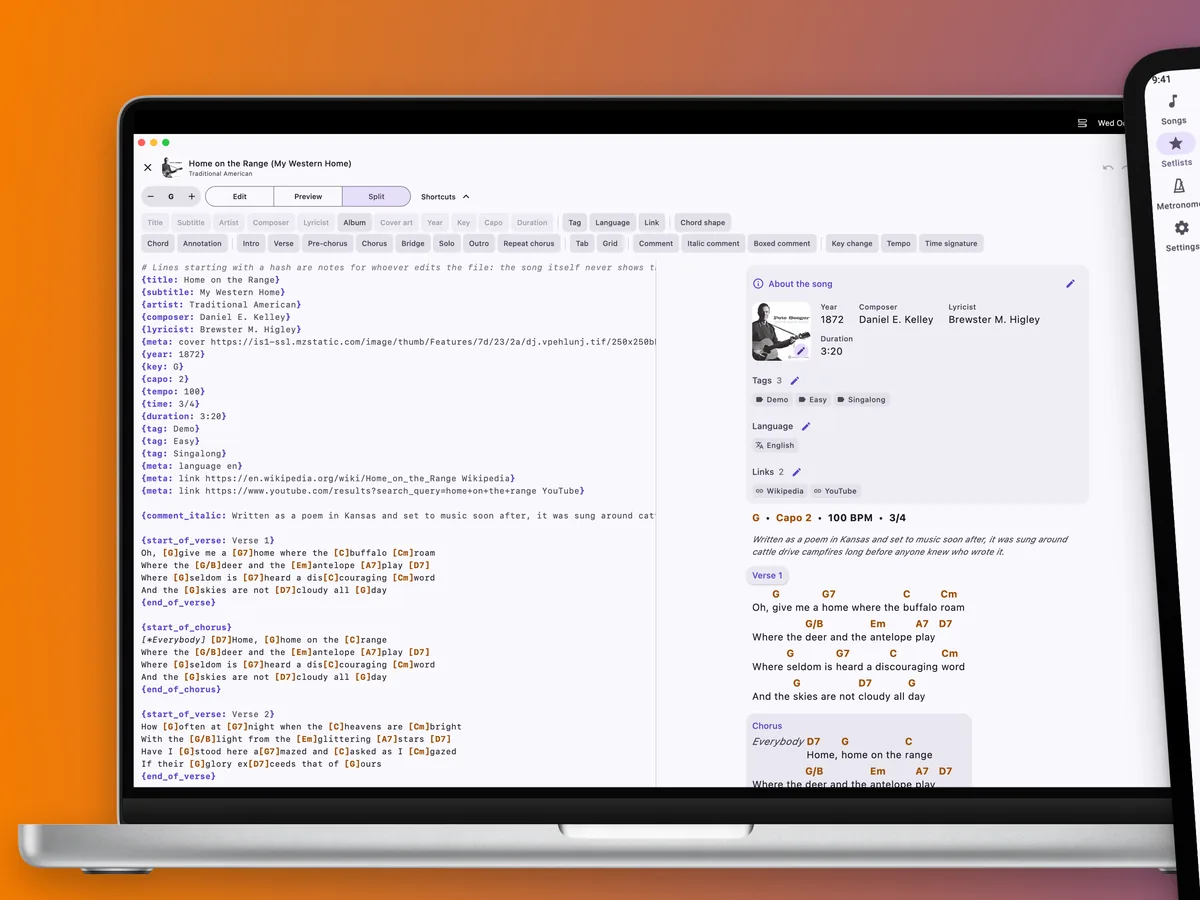
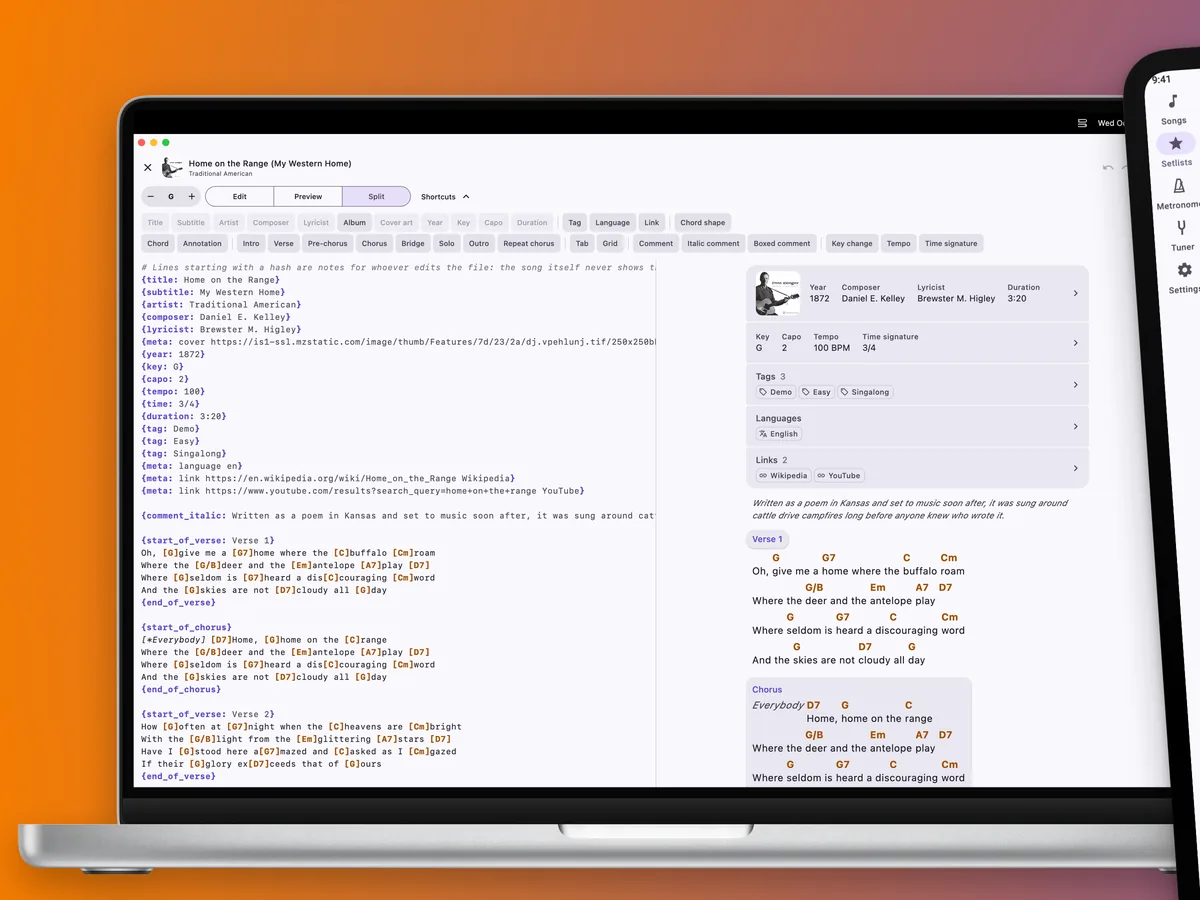
Add the tuner to the store screenshots and match the iPhone Duo's system chrome to iOS 27.1.

Changed region(s): [[0.6167, 0.3111, 0.8942, 0.8711], [0.9558, 0.2489, 1.0, 0.3422]]

diff --git a/tools/screenshots/src/main/kotlin/com/pandulapeter/campfire/screenshots/Shot.kt b/tools/screenshots/src/main/kotlin/com/pandulapeter/campfire/screenshots/Shot.kt
@@ -27,6 +27,7 @@ import com.pandulapeter.campfire.presentation.ui.navigation.CampfireDestination
 import com.pandulapeter.campfire.presentation.ui.navigation.SettingsTab
 import com.pandulapeter.campfire.presentation.ui.screens.songs.SongGroupHeader
 import com.pandulapeter.campfire.presentation.ui.screens.songs.SongGroups
+import com.pandulapeter.campfire.tuner.api.Tuner
 import kotlinx.coroutines.withTimeoutOrNull
 import kotlinx.serialization.json.JsonElement
 import kotlinx.serialization.json.JsonPrimitive
@@ -35,6 +36,7 @@ import kotlinx.serialization.json.buildJsonObject
 import kotlinx.serialization.json.put
 import kotlinx.serialization.json.putJsonArray
 import kotlinx.serialization.json.putJsonObject
+import org.koin.mp.KoinPlatform
 
 /**
  * One screenshot of the store listing, taken the same way on every [Device]. The rules each one follows are kept with
@@ -229,18 +231,42 @@ internal val shots = listOf(
         },
         beat = 0,
     ),
+    // The tuner as an instrument: its own tab on a guitar, the low E and the A strings already heard in tune and ticked
+    // off, and the D string heard a little flat, the needle left of the in-tune window, so the strings still to do show.
+    Shot(
+        id = "04-tuner",
+        uiMode = UserPreferences.UiMode.LIGHT,
+        preferences = {
+            mapOf(
+                "tunerSettings" to buildJsonObject {
+                    put("instrument", "guitar")
+                    put("referencePitch", 440)
+                    put("hasTurnedOnMicrophone", true)
+                },
+            )
+        },
+        drive = {
+            viewModel.selectTopLevelDestination(CampfireDestination.Tuner)
+            settle()
+            val tuner = KoinPlatform.getKoin().get<Tuner>() as ScriptedTuner
+            listOf(reading(note = 40, cents = 0f), reading(note = 45, cents = 1f), reading(note = 50, cents = -12f)).forEach {
+                tuner.hear(it)
+                settle(FRAME_MILLIS * 4)
+            }
+        },
+    ),
     // The setlists, latest day first: the Frey-Tully Nuptials in two days and Friday Night by the Lake tomorrow, each
     // counting down under its header next to its running time, and the rest of the gigs below.
     Shot(
-        id = "04-setlists",
-        uiMode = UserPreferences.UiMode.LIGHT,
+        id = "05-setlists",
+        uiMode = UserPreferences.UiMode.DARK,
         preferences = { mapOf("setlistSortingMode" to JsonPrimitive(UserPreferences.SetlistSortingMode.BY_DATE.id)) },
         drive = { viewModel.selectTopLevelDestination(CampfireDestination.Setlists) },
     ),
     // The ChordPro editor on the public domain Home on the Range: the text on its own where the window has room for one
     // pane, side by side with its live preview where it has room for two, and the Shortcuts always unfolded.
     Shot(
-        id = "05-editor",
+        id = "06-editor",
         uiMode = UserPreferences.UiMode.DARK,
         drive = {
             viewModel.openEditor(HOME_ON_THE_RANGE)
@@ -253,8 +279,8 @@ internal val shots = listOf(
     // preview shows the chord diagrams, the key, the tempo, the comments and the details. Share stands next to Save on
     // the phones and tablets, as the platforms' file pickers offer it there and not on a desktop.
     Shot(
-        id = "06-export",
-        uiMode = UserPreferences.UiMode.DARK,
+        id = "07-export",
+        uiMode = UserPreferences.UiMode.LIGHT,
         preferences = { device ->
             mapOf(
                 "printSettings" to printSettings(isLandscape = device != Device.ANDROID_SMALL_TABLET),
@@ -265,17 +291,9 @@ internal val shots = listOf(
     // Sync and the library: Settings' Library tab, the Dropbox account connected and synchronized a few minutes ago,
     // what the library holds, the covers it keeps and the ways in and out of it.
     Shot(
-        id = "07-sync",
+        id = "08-sync",
         uiMode = UserPreferences.UiMode.LIGHT,
         prepare = { viewModel.settingsTab = SettingsTab.LIBRARY },
-        drive = { viewModel.selectTopLevelDestination(CampfireDestination.Settings) },
-    ),
-    // Making it one's own: Settings' General tab, with the theme, the colors (Android's wallpaper colors among them) and
-    // the switch that has the app icon follow the color.
-    Shot(
-        id = "08-settings",
-        uiMode = UserPreferences.UiMode.LIGHT,
-        prepare = { viewModel.settingsTab = SettingsTab.GENERAL },
         drive = { viewModel.selectTopLevelDestination(CampfireDestination.Settings) },
     ),
 )

diff --git a/tools/screenshots/src/main/kotlin/com/pandulapeter/campfire/screenshots/SystemChrome.kt b/tools/screenshots/src/main/kotlin/com/pandulapeter/campfire/screenshots/SystemChrome.kt
@@ -191,11 +191,12 @@ internal sealed interface SystemChrome {
     /**
      * The iPhone Duo open and on its side, where iOS 27 takes the bars off the top and the bottom edges: the status bar
      * stands at the top of an 84pt strip along the trailing edge, which the app is laid out beside and draws its
-     * background under, and only the home indicator stays at the bottom. The strip is a 48pt column with 12pt before
-     * and 24pt after it, its content starting 24pt from the top: the time over the status ring, as the iOS 27 UI Kit
-     * draws them and the Duo simulator reports the insets (none at the top, 34pt at the bottom, 84pt on the right).
+     * background under, and nothing is drawn at the bottom, not even the home indicator. The strip is a 48pt column
+     * with 12pt before and 24pt after it: the time over the status ring, measured on the iOS 27.1 Duo simulator, which
+     * still reports insets of 16pt at the top, 34pt at the bottom and 84pt on the right.
      */
     data object IPhoneDuo : SystemChrome {
+        override val statusBar = 16.dp
         override val navigationBar = 34.dp
         override val trailingBar = 84.dp
 
@@ -205,14 +206,13 @@ internal sealed interface SystemChrome {
                 modifier = Modifier.align(Alignment.TopEnd).padding(top = 24.dp, end = 24.dp).width(48.dp),
                 horizontalAlignment = Alignment.CenterHorizontally,
             ) {
-                Spacer(Modifier.height(11.dp))
+                Spacer(Modifier.height(6.33.dp))
                 Box(Modifier.height(19.dp), contentAlignment = Alignment.Center) {
                     ChromeText(text = "9:41", appearance = appearance, size = 16.sp, weight = FontWeight.Bold)
                 }
-                Spacer(Modifier.height(5.dp))
-                Canvas(Modifier.size(46.dp)) { drawStatusRing(appearance.content) }
+                Spacer(Modifier.height(7.67.dp))
+                Canvas(Modifier.size(41.dp)) { drawStatusRing(appearance.content) }
             }
-            HomeIndicator(appearance = appearance, width = 208.dp, modifier = Modifier.align(Alignment.BottomCenter).padding(bottom = 8.dp))
         }
     }
 

diff --git a/tools/screenshots/src/main/kotlin/com/pandulapeter/campfire/screenshots/SystemChromeGlyphs.kt b/tools/screenshots/src/main/kotlin/com/pandulapeter/campfire/screenshots/SystemChromeGlyphs.kt
@@ -91,10 +91,11 @@ internal fun DrawScope.drawBattery(color: Color, hasNub: Boolean) {
 
 /**
  * iOS 27's status ring, the iPhone Duo's status bar when it stands on its side: a full battery as an arc around the
- * area, open at the bottom, where four dots of a full cellular signal sit, and Wi-Fi in the middle.
+ * area, open at the bottom, where four dots of a full cellular signal sit on the arc's own circle, and Wi-Fi in the
+ * middle, as the iOS 27.1 simulator draws it.
  */
 internal fun DrawScope.drawStatusRing(color: Color) {
-    val stroke = size.minDimension * 0.075f
+    val stroke = size.minDimension * 0.078f
     val radius = (size.minDimension - stroke) / 2
     drawArc(
         color = color,
@@ -105,23 +106,23 @@ internal fun DrawScope.drawStatusRing(color: Color) {
         size = Size(radius * 2, radius * 2),
         style = Stroke(width = stroke, cap = StrokeCap.Round),
     )
-    listOf(-16.5f, -5.5f, 5.5f, 16.5f).forEach { degrees ->
+    listOf(-31.5f, -10.5f, 10.5f, 31.5f).forEach { degrees ->
         val angle = (90.0 + degrees) * PI / 180
         drawCircle(
             color = color,
-            radius = stroke * 0.4f,
+            radius = stroke * 0.625f,
             center = Offset(center.x + radius * cos(angle).toFloat(), center.y + radius * sin(angle).toFloat()),
         )
     }
-    val wifiWidth = size.width * 0.4f
+    val wifiWidth = size.width * 0.43f
     val wifiHeight = wifiWidth * 0.72f
     val left = center.x - wifiWidth / 2
-    val top = center.y - wifiHeight * 0.6f
+    val top = center.y - wifiHeight * 0.52f
     inset(left = left, top = top, right = size.width - left - wifiWidth, bottom = size.height - top - wifiHeight) { drawWifi(color) }
 }
 
 /** How much of the status ring, in degrees, is left open at its bottom for the cellular dots. */
-private const val STATUS_RING_OPENING = 70f
+private const val STATUS_RING_OPENING = 120f
 
 /** A magnifier, its lens at the top left and its handle running to the bottom right. */
 internal fun DrawScope.drawMagnifier(color: Color) {

diff --git a/tools/screenshots/src/main/kotlin/com/pandulapeter/campfire/screenshots/Banners.kt b/tools/screenshots/src/main/kotlin/com/pandulapeter/campfire/screenshots/Banners.kt
@@ -33,8 +33,8 @@ internal val banners: List<Banner> by lazy {
         Device.ANDROID_PHONE to "01-songs",
         Device.IPHONE to "03-metronome",
         Device.IPAD to "02-song",
-        Device.ANDROID_SMALL_TABLET to "04-setlists",
-        Device.MAC to "05-editor",
+        Device.ANDROID_SMALL_TABLET to "05-setlists",
+        Device.MAC to "06-editor",
     ).map { (device, id) -> device to shot(id) }
     listOf(
         Banner(
@@ -54,7 +54,7 @@ internal val banners: List<Banner> by lazy {
         Banner(
             folder = "App Store - Header",
             slots = listOf(
-                Device.IPAD to shot("04-setlists").inTheme(UserPreferences.UiMode.DARK),
+                Device.IPAD to shot("05-setlists").inTheme(UserPreferences.UiMode.DARK),
                 Device.MAC to shot("02-song"),
                 Device.IPHONE to shot("01-songs"),
             ),

diff --git a/.claude/skills/store-screenshots/SKILL.md b/.claude/skills/store-screenshots/SKILL.md
@@ -106,9 +106,9 @@ repository; the user reviews and commits.
 The listing alternates two dark, two light: 1–2 dark, 3–4 light, 5–6 dark, 7–8 light. Shared rules: the store
 screenshots are shown at 9:41 on Wednesday, October 7, 2026 (setlist dates are moved with the run's day, so their
 countdowns always read the same); the iPhone Duo is always part of the listing, shown unfolded and on its side
-(its inner display, 2853×2007 at 3x, as iOS 27 lays it out: no status bar across the top, but an 84pt strip along
-the right edge that the app is inset from and draws under, with the time and the status ring at its top, and the home
-indicator at the bottom); the app icon anywhere in the system chrome is the default gradient one; Android phone frames are Screenshot Bro's Pixel frame; Share is shown on Android and iOS only; sync is a fake connected
+(its inner display, 2853×2007 at 3x, as the iOS 27.1 simulator lays it out: no status bar across the top, but an 84pt
+strip along the right edge that the app is inset from and draws under, with the time and the status ring at its top,
+insets of 16pt at the top and 34pt at the bottom, and no home indicator drawn); the app icon anywhere in the system chrome is the default gradient one; Android phone frames are Screenshot Bro's Pixel frame; Share is shown on Android and iOS only; sync is a fake connected
 account, "Connected as Péter Pandula"; only public domain songs are opened full screen in the listing.
 
 | # | Headline | Shot |
@@ -116,15 +116,15 @@ account, "Connected as Péter Pandula"; only public domain songs are opened full
 | 1 | Your songbook, on any screen | Songs, English only, by artist, scrolled to Bob Dylan (pinned), "+" menu open |
 | 2 | Laid out for the way you play | House of the Rising Sun (Traditional American); phones at 100% text with the Picking pattern folded, Chromebook at 100%, so the whole first verse shows |
 | 3 | A metronome that knows each song | Metronome tab playing 6/8 at 236, beats 1 and 4 accented, caught on beat 1 |
-| 4 | Setlists ready for the gig | Setlists by date: Frey-Tully Nuptials "In 2 days", Friday Night by the Lake "Tomorrow" |
-| 5 | ChordPro editor with live preview | Home on the Range in the editor; Split wherever the app offers it, Edit otherwise; Shortcuts always open |
-| 6 | Print a song or the whole set | Home on the Range exported: PDF, A4, landscape (portrait on the small Android tablet), two columns, every option on |
-| 7 | Offline first, synced across devices | Settings → Library, sync connected |
-| 8 | Make it yours, down to the icon | Settings → General |
+| 4 | A tuner for the whole band | Tuner tab on a guitar: E2 and A2 ticked off in tune, D3 heard 12 cents flat |
+| 5 | Setlists ready for the gig | Setlists by date: Frey-Tully Nuptials "In 2 days", Friday Night by the Lake "Tomorrow" |
+| 6 | ChordPro editor with live preview | Home on the Range in the editor; Split wherever the app offers it, Edit otherwise; Shortcuts always open |
+| 7 | Print a song or the whole set | Home on the Range exported: PDF, A4, landscape (portrait on the small Android tablet), two columns, every option on |
+| 8 | Offline first, synced across devices | Settings → Library, sync connected |
 
-The README banners are shots 1, 3, 2, 4, 5 on the Android phone, iPhone, iPad, small Android tablet and Mac — dark in
+The README banners are shots 1, 3, 2, 5, 6 on the Android phone, iPhone, iPad, small Android tablet and Mac — dark in
 banner 1, light and in reverse order in banner 2. The Play Store banner is the Android phone's shots 1 and 2; the link
-preview the Mac's 2 and the iPhone's 1; Apple's header the iPad's 4, the Mac's 2 and the iPhone's 1, and its search
+preview the Mac's 2 and the iPhone's 1; Apple's header the iPad's 5, the Mac's 2 and the iPhone's 1, and its search
 results image the iPad's 2 and the iPhone's 3, all dark.
 
 The website's songs are set at the text size where page one ends exactly where a section ends, never inside one: Still
@@ -141,9 +141,9 @@ The listing is `shots` in `Shot.kt`, in store order; the website's are in `Websi
 `Banners.kt`. A shot sets the preferences it needs (`preferences`, per device), prepares state a screen only reads as
 it is first composed (`prepare`, e.g. a list's scroll position), then drives `CampfireViewModel` or taps what is
 labelled with a string resource (`drive`, `tap`, `tapIfPresent`) — so it works in every language — and can catch a
-metronome beat (`beat`). Keep each shot's rules in its comment and in the table above. Adding or removing a listing
-shot also means adding or removing that column in every listing row of the project (copying a neighbor's frame and
-headline), and updating the headlines there.
+metronome beat (`beat`). Keep each shot's rules in its comment and in the table above. A store takes at most eight shots, so a
+new one replaces another rather than adding a column: move the headlines along in every listing row of the project and
+reimport. Every headline is above its frame, in every row.
 
 The system chrome is `SystemChrome.kt`, measured against the real systems (Android emulators, iOS simulators, the
 desktop app's own window). The Chromebook and Windows rows are framed in MacBook Pros whose camera housing a black

diff --git a/tools/screenshots/CLAUDE.md b/tools/screenshots/CLAUDE.md
@@ -39,8 +39,8 @@ graphic and the website's link preview - from the same shots, in their own theme
   downloads the three into `build/fonts`, each pinned to a commit of its repository and checked against its SHA-256 in
   `build.gradle.kts` — updating one means a new commit in its address and a new checksum there.
 - **Nothing reaches outside** (`Fakes.kt`): sync is a repository that shows a connected account and runs nothing, the
-  metronome is silent and lights only the beat a shot asks for, the file picker writes nothing. Covers come from the
-  copied cache.
+  metronome is silent and lights only the beat a shot asks for, the tuner (`ScriptedTuner`) hears only the readings a
+  shot hands it, the file picker writes nothing. Covers come from the copied cache.
 - **The shots** are `shots` in `Shot.kt`, in the listing's order, each with its theme, language and the `drive` block
   that brings the app to its state through `CampfireViewModel`; their rules are kept there, so a retake is the same
   picture. The headlines are part of the Screenshot Bro project, not of the images.
